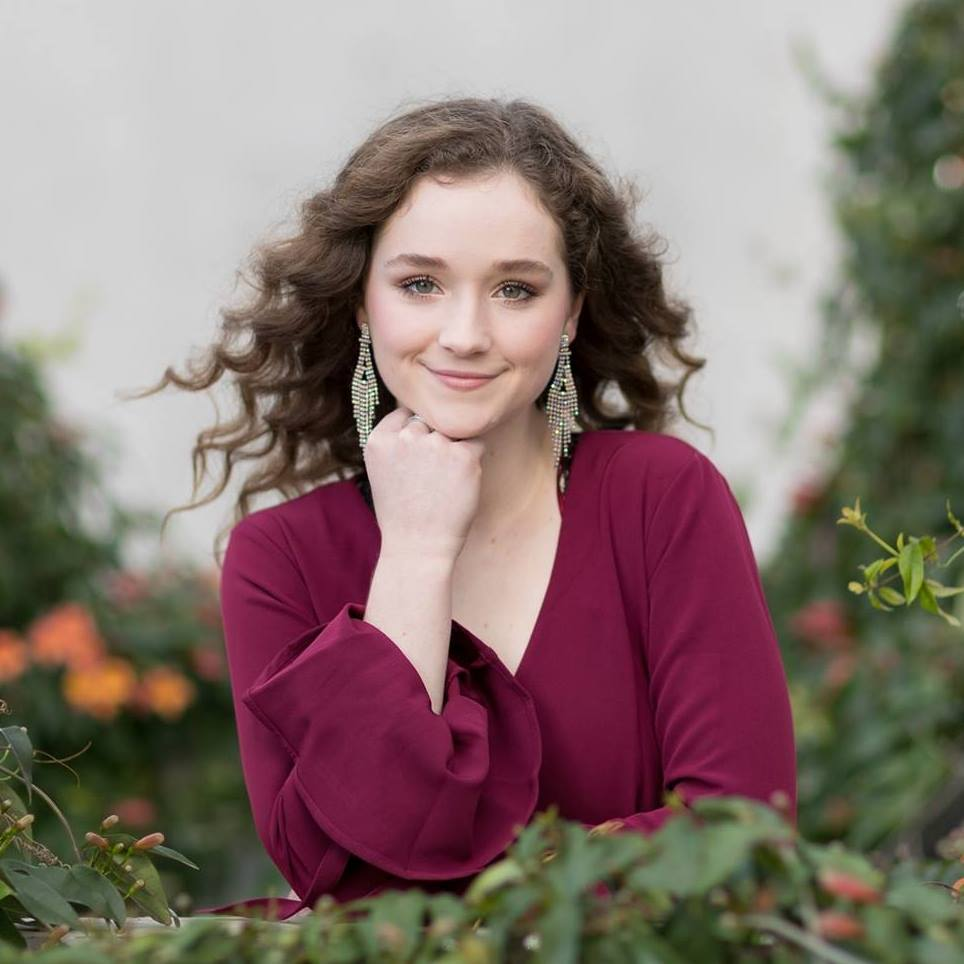
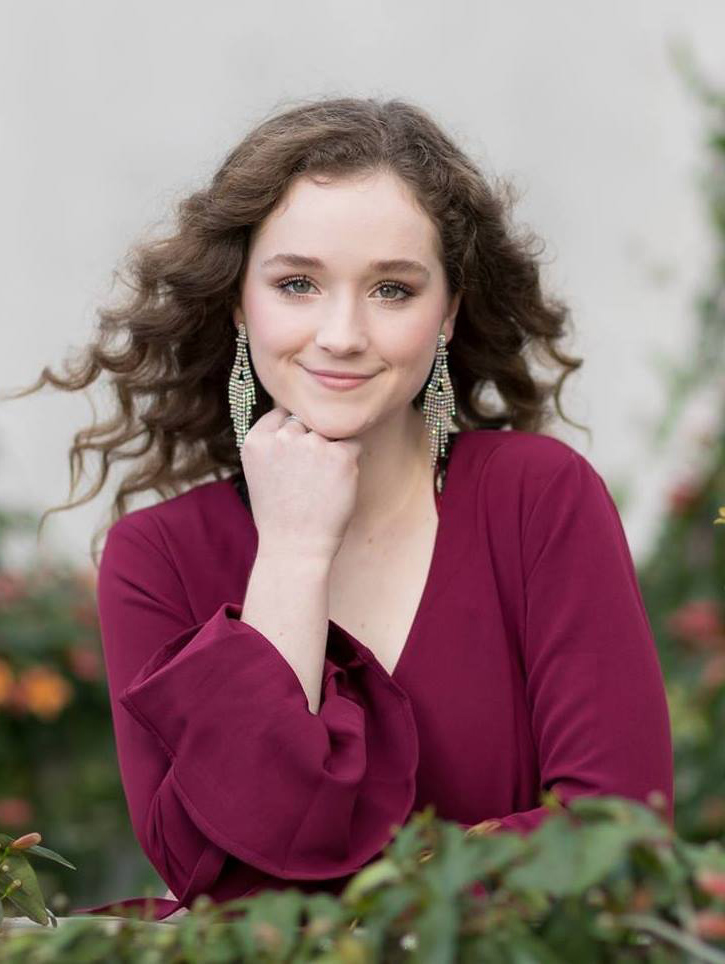
Fix profile image sizing

diff --git a/src/components/Profile.js b/src/components/Profile.js
@@ -5,7 +5,7 @@ class Profile extends Component {
   render() {
     return (
       <div>
-      <div className="profile-image"/>
+      <div className="profile-image"><img height="420px" src="prof.jpg"/></div>
       <div className="name-position-container">
         <div className="name">Alexandria Curtis</div>
         <div className="position">Software Engineer</div>

diff --git a/src/App.css b/src/App.css
@@ -30,12 +30,15 @@ body {
 
 .profile-image {
   height: 420px;
-  background-image: url('../../prof.jpg');
   background-size: cover;
   background-position: center;
   margin-top: 20px;
   margin-left: auto;
   margin-right: auto;
+}
+
+.profile-image img {
+  max-width: 100%;
 }
 
 .name-position-container {
